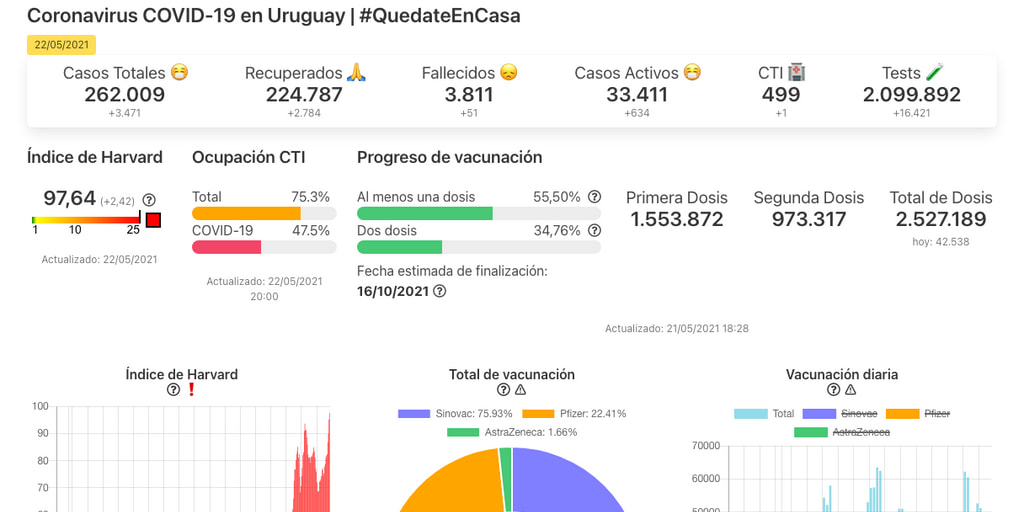
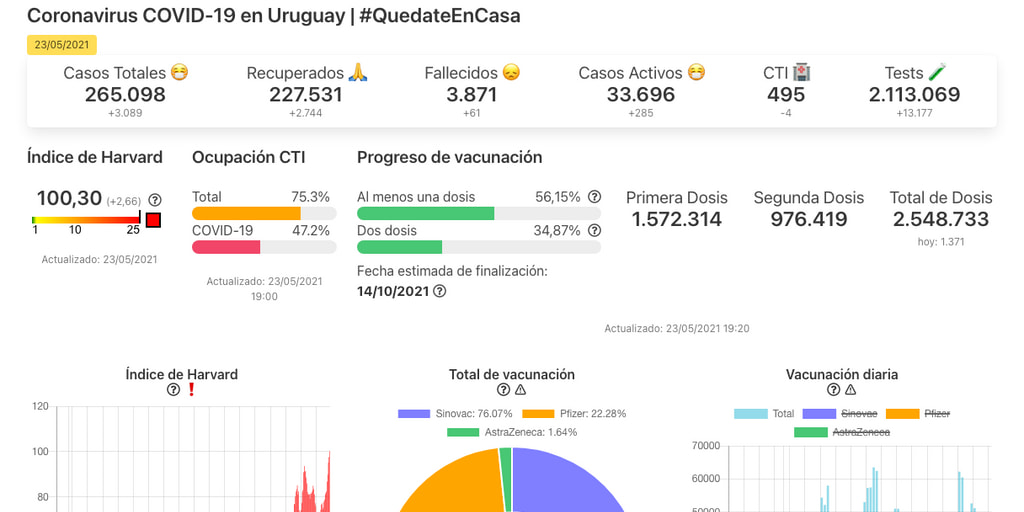
updated uruguay

diff --git a/test/test-data.js b/test/test-data.js
@@ -230,6 +230,11 @@ describe('Test data', function () {
                                 totalDeaths--;
                             }
 
+                            // an extra death was reported on 2021-05-23, but it wasn't informed which one
+                            if (date.getTime() == new Date("2021-05-23" + DATE_DEFAULT_TIME).getTime()) {
+                                totalDeaths--;
+                            }
+
                             deathHistory.push({ date: date, deaths: totalDeaths });
                         }
                     }
